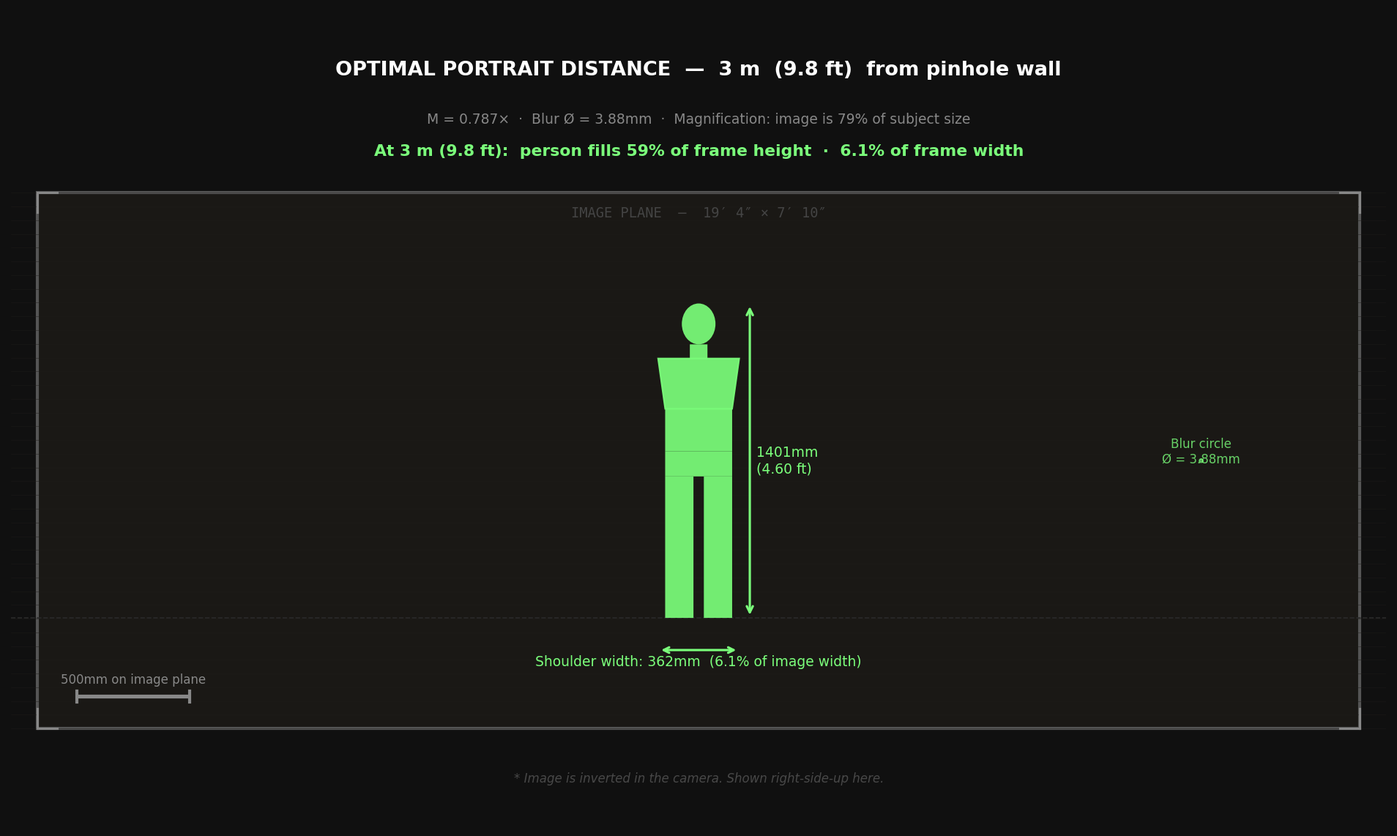
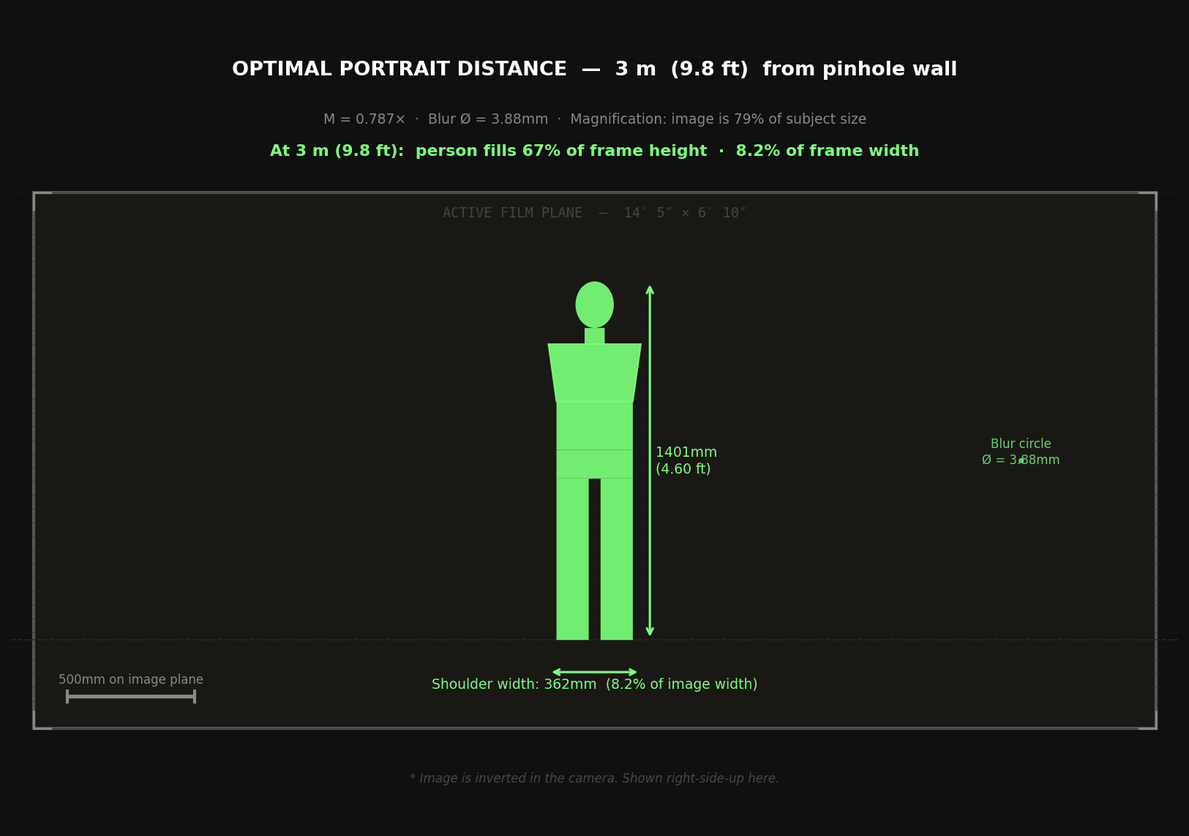
Refresh portrait diagrams to the active film plane + new Research report
The 3 portrait/optics diagrams were stale: they used the full container wall (5893x2388,
pinhole at container center) as the image plane -> 102deg FOV. Refreshed generate_portrait_viz.py
to the active film plane (4389x2094, pinhole X=2454), single-sourced from tbs_constants ->
~86deg H x ~48deg V FOV. Subject sizes (3m->1401mm, M=0.787) + blur were already correct.

Retired the duplicate generate_schematic.py (2nd stale producer of the same PNG, a
dependencies.yml conflict) + its refs in component-dependency-map/unused-imports-todo.

New Research report portrait-photography.md homes the 3 diagrams; registered in
publish.sh/setup_docs/mkdocs. Fixed the same stale 102deg FOV in pinhole-optics-report.md
Part 11 -> active-zone 86x48. Gallery-only 5 -> 2. Lint + editorial + build all green.

diff --git a/src/generators/generate_portrait_viz.py b/src/generators/generate_portrait_viz.py
@@ -4,22 +4,27 @@
 """
 Pinhole Camera — Portrait Scale Visualization
 Option B: 20-ft container, side-to-side
-f = 2362mm | d = 2.17mm | f/1088 | 102° horizontal FOV
+f = 2362mm | d = 2.17mm | f/1088 | ~86° horizontal FOV (active 4389mm film plane)
 """
 import matplotlib
 matplotlib.use('Agg')
 import matplotlib.pyplot as plt
 import matplotlib.patches as mpatches
 import numpy as np
-from tbs_constants import DISTORTION_DPI
+import math
+from tbs_constants import DISTORTION_DPI, RAIL_X_L, RAIL_X_R, FP_H, C_LEN, C_WID
 
 # ─────────────────────────────────────────
-# Camera constants
+# Camera constants — the IMAGE PLANE is the ACTIVE FILM PLANE (not the full container wall)
 # ─────────────────────────────────────────
-F   = 2362.0   # focal length, mm
-D   =  2.17    # Rayleigh pinhole, mm
-IW  = 5893.0   # image-plane width,  mm  (19′ 4″)
-IH  = 2388.0   # image-plane height, mm  (7′ 10″)
+F    = float(C_WID)                 # 2362 — focal length = container interior depth, mm
+D    =  2.17                        # Rayleigh pinhole Ø, mm
+FP_W = float(RAIL_X_R - RAIL_X_L)   # 4389 — active film-plane (image-plane) width, mm
+IW   = FP_W                         # image-plane width used for the scale charts
+IH   = float(FP_H)                  # 2094 — active film-plane height, mm
+PINHOLE_X = RAIL_X_L + FP_W / 2     # 2454.5 — pinhole on the long wall, at the ACTIVE-plane center
+H_FOV = 2 * math.degrees(math.atan((IW / 2) / F))   # ~86° — real horizontal field of view
+V_FOV = 2 * math.degrees(math.atan((IH / 2) / F))   # ~48° — real vertical field of view
 
 # ─────────────────────────────────────────
 # Subject proportions for a 1780mm adult
@@ -43,7 +48,7 @@ HEAD_W_F     = 0.107
 # Distances and presentation colors
 DISTS_M  = [2.0, 3.0, 5.0, 10.0]
 COLOURS  = ['#00D8FF', '#7BFF7B', '#FFB347', '#FF6B9D']
-X_CENTS  = [620, 1820, 3200, 5050]   # silhouette centers on image plane
+X_CENTS  = [IW*0.105, IW*0.309, IW*0.543, IW*0.857]   # silhouette centers (fractions of active width)
 
 
 # ─────────────────────────────────────────
@@ -217,7 +222,7 @@ ax.text(IW*0.5, IH*0.80,
 
 # ── Image plane label ────────────────────
 ax.text(IW/2, IH - IH*0.025,
-        "IMAGE PLANE  —  19′ 4″ × 7′ 10″  (5893 × 2388mm)",
+        "ACTIVE FILM PLANE  —  14′ 5″ × 6′ 10″  (4,389 × 2,094mm)",
         ha='center', va='top', fontsize=9, color='#444', zorder=10,
         fontfamily='monospace')
 
@@ -226,7 +231,7 @@ ax.text(IW/2, IH + IH*0.60,
         'OPTION B PINHOLE CAMERA  —  PORTRAIT RENDERING AT SCALE',
         ha='center', fontsize=14, color='#FFFFFF', fontweight='bold', zorder=10)
 ax.text(IW/2, IH + IH*0.48,
-        'Subject: 5′ 10″  (1780mm)  ·  f = 2362mm  ·  Pinhole d = 2.17mm  ·  f/1088  ·  102° H-FOV',
+        f'Subject: 5′ 10″  (1780mm)  ·  f = 2362mm  ·  Pinhole d = 2.17mm  ·  f/1088  ·  {H_FOV:.0f}° H-FOV × {V_FOV:.0f}° V-FOV',
         ha='center', fontsize=9.5, color='#888', zorder=10)
 
 # ── Inversion note ───────────────────────
@@ -258,8 +263,8 @@ ax2.set_facecolor('#0D0D0D')
 
 # Camera container footprint (20 ft × 8 ft)
 # Orient so image plane faces "up" in the diagram
-CONT_L_MM = 5893   # 19'4" interior = image plane width
-CONT_W_MM = 2362   # 7'9" interior = focal length
+CONT_L_MM = float(C_LEN)   # 5893 — container interior length
+CONT_W_MM = float(C_WID)   # 2362 — container interior depth = focal length
 
 # Container rectangle (left edge at x=0, bottom at y=0)
 ax2.add_patch(mpatches.Rectangle(
@@ -270,35 +275,41 @@ ax2.text(CONT_L_MM/2, CONT_W_MM/2,
          ha='center', va='center', fontsize=10, color='#555',
          fontweight='bold', zorder=3)
 
-# Image plane wall (top of container in diagram)
+# Image-plane wall (top of container). The full wall is faint; the ACTIVE FILM PLANE
+# (X = RAIL_X_L..RAIL_X_R) is the bright photosensitive span — offset toward the cargo-door end.
 ax2.plot([0, CONT_L_MM],[CONT_W_MM, CONT_W_MM],
-         color='#00D8FF', lw=4, solid_capstyle='butt', zorder=4, label='Image plane wall')
-ax2.text(CONT_L_MM/2, CONT_W_MM + 120,
-         'IMAGE PLANE  (photosensitive surface)',
+         color='#2A3A3A', lw=4, solid_capstyle='butt', zorder=4)
+ax2.plot([RAIL_X_L, RAIL_X_R],[CONT_W_MM, CONT_W_MM],
+         color='#00D8FF', lw=5, solid_capstyle='butt', zorder=4, label='Active film plane')
+ax2.text((RAIL_X_L+RAIL_X_R)/2, CONT_W_MM + 120,
+         'ACTIVE FILM PLANE  (4,389mm photosensitive span)',
          ha='center', fontsize=9, color='#00D8FF', zorder=5)
 
-# Pinhole wall (bottom of container in diagram)
+# Pinhole wall (bottom of container in diagram) — pinhole at the ACTIVE-plane center X (not container center)
 ax2.plot([0, CONT_L_MM],[0, 0],
          color='#FF6B35', lw=4, solid_capstyle='butt', zorder=4)
 ax2.add_patch(mpatches.Circle(
-    (CONT_L_MM/2, 0), 60,
+    (PINHOLE_X, 0), 60,
     fc='#FF6B35', ec='#FF9900', lw=2, zorder=5))
-ax2.text(CONT_L_MM/2, -350,
-         f'PINHOLE  ⌀ {D}mm  (f/{F/D:.0f})',
+ax2.text(PINHOLE_X, -350,
+         f'PINHOLE  ⌀ {D}mm  (f/{F/D:.0f})  ·  X={PINHOLE_X:.0f}mm',
          ha='center', fontsize=9.5, color='#FF6B35', fontweight='bold', zorder=5)
 
-# Light rays from pinhole to edges of image plane
-ray_color = '#FF6B3518'
-for iy in np.linspace(0, CONT_L_MM, 8):
-    ax2.plot([CONT_L_MM/2, iy],[0, CONT_W_MM],
+# Light rays from the pinhole to the edges of the ACTIVE film plane (the real captured cone)
+for iy in np.linspace(RAIL_X_L, RAIL_X_R, 8):
+    ax2.plot([PINHOLE_X, iy],[0, CONT_W_MM],
              color='#FF6B3530', lw=0.8, zorder=1)
 
-# Subject positions (above the container = outside the pinhole wall)
-scene_scale = 1.0   # mm stays as mm
-max_dist_mm = 12000
+# Subjects sit BELOW the pinhole wall (y = −distance). Bound the view to the actual content —
+# subjects down to the farthest distance, labels up to just above the image-plane stack — so the
+# drawing fills the frame instead of floating under a tall empty top margin.
+_label_top = CONT_W_MM + 500 + (len(DISTS_M) - 1) * 620   # top image-height label row
+_subj_bot  = -max(DISTS_M) * 1000                          # farthest subject (10 m)
+_title_y   = _label_top + 700
+_sub_y     = _label_top + 400
 
 ax2.set_xlim(-1500, CONT_L_MM + 1500)
-ax2.set_ylim(-1600, CONT_W_MM + max_dist_mm + 800)
+ax2.set_ylim(_subj_bot - 600, _title_y + 450)
 ax2.set_aspect('equal')
 ax2.axis('off')
 
@@ -309,9 +320,9 @@ for u_m, col in zip(DISTS_M, COLOURS):
     ph   = PH * M
     sw   = PH * SHOULDER_W_F * M
 
-    # Subject position in diagram: below pinhole wall (y = -u_mm)
+    # Subject position in diagram: below the pinhole (y = -u_mm), centered on the pinhole X
     sy = -u_mm
-    sx = CONT_L_MM/2
+    sx = PINHOLE_X
 
     # Figure (simple vertical bar + head)
     fig_h_diag = 300   # fixed display size for subject in this diagram
@@ -328,29 +339,29 @@ for u_m, col in zip(DISTS_M, COLOURS):
                  xytext=(sx + 900, 0),
                  arrowprops=dict(arrowstyle='<->', color=col, lw=1.4,
                                  mutation_scale=9), zorder=9)
-    ax2.text(sx + 1200, sy/2,
-             f'{u_m:.0f} m\n({u_m*3.28084:.0f} ft)',
-             va='center', fontsize=9, color=col, fontweight='bold', zorder=10)
+    ax2.text(sx + 1200, sy + fig_h_diag / 2,
+             f'{u_m:.0f} m  ({u_m*3.28084:.0f} ft)',
+             va='center', ha='left', fontsize=9, color=col, fontweight='bold', zorder=10)
 
     # Sight lines from subject to pinhole
-    ax2.plot([sx, CONT_L_MM/2],[sy + fig_h_diag/2, 0],
+    ax2.plot([sx, PINHOLE_X],[sy + fig_h_diag/2, 0],
              color=col, lw=0.7, ls='--', alpha=0.35, zorder=3)
 
     # Image height label on image plane
-    img_x_center = CONT_L_MM/2
+    img_x_center = PINHOLE_X
     img_x_offset = img_x_center - ph/2
     ax2.plot([img_x_offset, img_x_offset + ph],
              [CONT_W_MM + 50, CONT_W_MM + 50],
              color=col, lw=3, solid_capstyle='butt', alpha=0.7, zorder=5)
-    ax2.text(img_x_center, CONT_W_MM + 180 + DISTS_M.index(u_m)*150,
+    ax2.text(CONT_L_MM*0.62, CONT_W_MM + 500 + DISTS_M.index(u_m)*620,
              f'{u_m:.0f}m → image {ph:.0f}mm tall  ·  M = {M:.3f}×  ·  Blur Ø {B:.2f}mm',
-             ha='center', fontsize=8.5, color=col, zorder=10)
+             ha='left', fontsize=8.5, color=col, zorder=10)
 
-# Title
-ax2.text(CONT_L_MM/2, CONT_W_MM + max_dist_mm + 500,
+# Title (just above the image-plane label stack — no empty top margin)
+ax2.text(CONT_L_MM/2, _title_y,
          'TOP-DOWN SCHEMATIC  —  CAMERA + SUBJECT DISTANCES',
          ha='center', fontsize=13, color='#FFFFFF', fontweight='bold', zorder=10)
-ax2.text(CONT_L_MM/2, CONT_W_MM + max_dist_mm + 250,
+ax2.text(CONT_L_MM/2, _sub_y,
          'Diagram is to scale in mm. Container interior view. Subject outside, facing pinhole wall.',
          ha='center', fontsize=9, color='#777', zorder=10)
 
@@ -448,7 +459,7 @@ ax3.text((sb3_x0+sb3_x1)/2, sb3_y+IH*0.025,
 
 # Image plane label
 ax3.text(IW/2, IH-IH*0.025,
-         "IMAGE PLANE  —  19′ 4″ × 7′ 10″",
+         "ACTIVE FILM PLANE  —  14′ 5″ × 6′ 10″",
          ha='center', va='top', fontsize=9, color='#444', zorder=10,
          fontfamily='monospace')
 

diff --git a/src/generators/setup_docs.py b/src/generators/setup_docs.py
@@ -67,6 +67,7 @@ MD_FILES = [
     ("licensing.md",                      (".",           "License")),
     ("light-trap-selection.md",           (".",           "Light Trap Selection")),
     ("engineering-diagrams.md",           (".",           "Engineering Diagrams")),
+    ("portrait-photography.md",           (".",           "Portrait Photography")),
     ("distortion-renders.md",      (".",           "Distortion Renders")),
     ("equipment-layout-report.md",        (".",           "Equipment Layout")),
     ("component-dependency-map.md",       (".",           "Component Dependency Map")),
@@ -359,6 +360,7 @@ nav:
     - "Lens Options": lens-options.md
     - "Photosensitive Materials": photosensitive-plane-options.md
     - "Sensitizer Trials": sensitizer-trials.md
+    - "Portrait Photography": portrait-photography.md
     - "Distortion Renders": distortion-renders.md
     - "Film Plane Distortion Analysis": film-plane-mechanism-analysis.md
     - "Light Trap Selection": light-trap-selection.md
@@ -476,6 +478,7 @@ The container travels by commercial hire truck. No CDL required for the operator
 | [License](licensing.md) | GNU AGPLv3 — © 2026 Alvin Richards |
 | [Light Trap Selection](light-trap-selection.md) | Revolving light trap options, pricing, and custom fabrication specification |
 | [Engineering Diagrams](engineering-diagrams.md) | All TBS-001 construction drawings — assembly overview, fabrication, subsystems |
+| [Portrait Photography](portrait-photography.md) | Portrait framing — field of view (~86°), subject size vs distance, and the optimal portrait distance |
 | [Distortion Renders](distortion-renders.md) | Ray-traced projections for all film-plane and tilt-swing configurations |
 | [Equipment Layout](equipment-layout-report.md) | Shadow-free end-zone layout — optical clearance proof, IBC Y-stacking, new rail positions |
 | [Component Dependency Map](component-dependency-map.md) | System component registry, diagram index, and change propagation guide |

diff --git a/editorial-review-todo.md b/editorial-review-todo.md
@@ -57,6 +57,7 @@ also a `tbs_constants` value or a `costing.py`/`facts.yml` fact, prefer the refe
 - [x] lens-options.md  — *DONE (2026-06-24): hyperlinked the whole Sources table (books→catalog, manufacturers→sites); header placeholders (pinhole 2.17→pinhole_diameter_mm, f/1088→f_number, container 5893→container_interior_length_mm ×2); thousands-sep 3262/3474/1112/424000/10743612; spelling/typos utilised→utilized, jewellery→jewelry, artefact→artifact, maximising→maximizing, centerd→centered ×2; cyanotype ~35→~30–45 min ×3. Pinhole resolution standardized on pinhole-optics' 0.69 lp/mm (was 0.23, the geometric figure MISLABELED 'diffraction-limited'): §4.1 row → 1.46mm Airy / 0.69 lp/mm / labeled+cited, the '× better than pinhole' ratios recomputed vs 0.69 (100→33×, 50→17×, 26→9×, 13→4×, 6→2×, 3→~1×; prose 65–110→22–36×, 20–43→7–14×), §4.2 reworded to keep the 2.17mm GEOMETRIC blur distinct from the lp/mm resolution, §10 summary 0.23→0.69. LEFT for review: 43 min (L113) vs 2.4 hr (L129) bellows discrepancy; whether the 0.69-diffraction framing (vs 0.23-geometric practical) reads right. Editorial + drift gates pass.*
 - [x] lens-vs-pinhole-exposure.md  — *DONE (2026-06-24): rewrote §2.2 to drop the show-wrong-then-correct device (the ~15,500 false start + 'Wait — this is not right') into a direct two-factor decomposition (1,632 aperture × 3.36 reciprocity = 5,484 ≈ 5,489), and added a 'for the camera as built' callout scoping Factor 2 to silver-gelatin paper (cyanotype is iron-based → no Schwarzschild term → lens edge is the ~4,624× aperture ratio alone). Hyperlinked the whole Sources table (books → catalog, Young → DOI, Schwarzschild → NASA ADS). Fixed the Schwarzschild citation: bogus 'Astrophysikalische Nachrichten Vol. 148' → The Astrophysical Journal Vol. 11, 1900, pp. 89–91 (ADS). Wrapped header f 2,362/2.17/f1088 as placeholders; 17094→17,094 (×2); dropped the naive 0.56 sec in Part 2 (0.47 used throughout); spellings penalises→penalizes, standardised→standardized (×2; editorial_lint misses -ise). Recorded the authoritative-voice/no-self-correction preference in memory. Editorial + drift gates pass.*
 - [x] photosensitive-plane-options.md  — *DONE (2026-06-24): 'Giant Pinhole Camera'→'The Big Shoebox Project (TBS-001)'; header placeholders (container/116/f/f-number/pinhole); British spellings→American (sensitiser×7, Sensitising, sensitised×3, sensitisation×3, artefact×3, minimising, analyses); thousands-sep 5950/1220; cyanotype §A.1 exposure ~1–4h→~30–45min(Ware)+~2–4h(Herschel); hyperlinked Sources table; pricing 2025→2026. COST (option 3 full reconcile): costing.py holds the truth for cyanotype per-print — bound NEW placeholders costing:s73-pp-std (~$36) + s73-pp-range ($27–63) to this doc; §1 fixed FAC→Ware AmFe; ALL muslin lines retail $80–100→BULK ~$6/print (project-cost-breakdown §7.1), recomputed every per-image total + cascaded Exec/process-comparison/recommendation tables (Gum→$61–81, Salt→$280–360, VanDyke→$121–206, Herschel→$30–40); added substrate-cost-basis note; softened 'ordered by cost'. Non-muslin processes unchanged. costing self-check + all gates pass. NOTE: Herschel/gum/salt/VanDyke totals are the doc's own chem estimates + bulk muslin (only cyanotype-Ware is single-sourced).*
+- [ ] portrait-photography.md  — *NEW 2026-10-08 (gallery-only diagram refresh): new Research report built clean — the prose points to the 3 refreshed portrait diagrams and keeps only headline figures (FOV ~86° H / ~48° V, f=2,362, Ø2.17, f/1088, M=f/u, blur=2.17·(1+f/u)); no restated detail dims to remove. Editorial gates pass. The portrait generators were refreshed off the active film plane (4,389×2,094, pinhole X=2,454) and the stale 102° FOV was also corrected in pinhole-optics-report.md Part 11. PENDING sign-off.*
 - [x] distortion-renders.md  — *DONE (2026-06-25): renamed from complete-distortion-renders.md (fixed refs in publish.sh, setup_docs.py MD_FILES + INDEX_MD, mkdocs.yml regen, project-summary.md, and the cross-ref links in film-plane-mechanism-report.md + tilt-swing-board-report.md). Editorial: §1 'Seven configurations'→'Six' (table is C0–C5); dropped 'old…no longer producible' archaeology → states the constraint affirmatively; single-sourced ±40°/±28° → film_plane_max_tilt/swing placeholders. Stray dim: tilt-swing C2/C3 'max shift' paired the 5.3° hard-stop with the 5° reference shift (207mm) — corrected the generator to COMPUTE it (SHIFT=round(F·tan(FB))=219mm), regenerated C2/C3 + summary, doc → ±219mm. Editorial + drift gates pass.*
 - [x] component-dimension-audit.md  — *DONE (2026-07-02, first review): intentionally dimensional (parts:dimension-audit table + evap facts already generated). (A) removed a duplicated closing line; (B) §2 detail headings were stuck at as-found ❌/⚠ while §1 + §4 mark them ✅ done → reconciled all six to '✅ RESOLVED (§4)' + an as-found note; (C) reworded §6 to keep the audit finding without the flagged 'Portacool Jetstream' phrasing → editorial_lint now fully clean; (D) flagged the §4 cost figures as a dated 2026-06-15 snapshot (current total in Cost Breakdown). Then fixed a stale §4 claim: the evap/inverter 3D re-send is DONE (overview.skp re-saved 1872583b + inverter label 99ec629c), not pending — only the manual Sketchfab re-upload may remain. Commits 1b23d1cc + 6f1a6697; all gates green. NOT yet published.*
 - [x] licensing.md  — *DONE (2026-07-02, first review): removed 'All rights reserved' (contradicted the AGPLv3 open-source grant → 'Copyright © 2026 Alvin Richards.', matches SPDX header); hyperlinked the license name to the official GNU AGPLv3 text (§E); added a Source References section (formal official-license link + repo LICENSE file) → cleared the editorial_lint missing-refs flag. Owns nothing; gates green. Commit 1b6df25a. NOT yet published (batched per cadence).*

diff --git a/RELEASE.md b/RELEASE.md
@@ -24,6 +24,7 @@ file** — a release must not ship without a changelog entry:
 
 ## [Unreleased]
 
+- **Portrait diagrams refreshed to the active film plane + new Research report.** The three portrait/optics visualizations (`portrait-camera-schematic`, `portrait-scale-comparison`, `portrait-optimal-3m`) were **stale** — they treated the full container wall (5,893 × 2,388mm) as the image plane with the pinhole at the container center, citing a **102° FOV**. Refreshed `generate_portrait_viz.py` to the real **active film plane (4,389 × 2,094mm, pinhole at X=2,454)**, now single-sourced from `tbs_constants` — the field of view is **~86° H × ~48° V**; the subject sizes (3m → 1,401mm image, M=0.787) and blur (B = 2.17·(1+f/u)) were already correct and unchanged. Retired the **duplicate `generate_schematic.py`** (a second, also-stale producer of the same PNG — a `dependencies.yml` conflict). New Research report **`portrait-photography.md`** gives the three diagrams a published home (framing, subject size vs distance, the optimal ~3m portrait). The same stale **102° FOV** was corrected in `pinhole-optics-report.md` Part 11 (→ active-zone 86° × 48°, consistent with its own "active film zone 4,389mm" row). **Gallery-only diagrams 5 → 2.**
 - **Electrical conduit + cable supports — 58 P-clips / saddle straps (3D), mirroring the plumbing panel.** Added pipe-support clips to the electrical runs: **12 saddle straps** fixing the 40×25 PVC ceiling cable trunk to the pinhole wall (~500mm centres), and **46 cushioned P-clips** on the out-of-trunk runs — Fan A far-end cross/drop, Fan B wall drop, the Cct-C feed's corridor traverse + drop onto the dist block, the Cct-C pump bus **and pump-branch cables** on the corridor plumbing panel, the interior PV+/PV- feeds behind the EP, the E-stop trip line + parallel link along the EP wall, the Cct-E AC line to the GFCI inside the external EP, and the **Cct-G light cable over the IBC corridor**. Each clip set is emitted by the run's **owning function** (`em._run`, `pw.panel_power`, `power_core`) on the run's own point-list via a new shared **`ruby_clip_run(points, spacing)`** helper, so the clips track the conductor and can't drift off it. `check_interference` gains a rule treating `clip` solids as **intended pipe contact** (a support clamp touching its pipe is not a clash) — which also legitimizes the plumbing clips. BOM: new **`conduit-support-clips`** (58 ea, $0.45–0.80) → electrical +$26/$46, grand total reconciled both ways. `check_interference` **0 crossings / 0 interferences** on electrical. (3D + BOM; cascade to overview/construction/water pending.)
 - **Model-drift audit → `evap_cooler` single-sourced to em (fixes a stale GFCI height).** A sweep of every overview geometry builder (the thin-wrapper audit) found one remaining true duplicate: the overview's `evap_cooler()` drew its **own ported copies** of the Cct-E **cooler body**, **120V AC line** (inverter → GFCI), and **cooler cord** (GFCI → cooler) — all of which em also draws. The copies had **drifted**: the overview ran the AC line + cord to a GFCI at `0.325·PWR_PANEL_H` while em's real outlet is at `_OUTLET_VF=0.4292·PWR_PANEL_H`, so in the overview the cooler wiring stopped short of the actual GFCI. Fix: extracted **`em.cooler()`** (cooler body + cord, the single owner, shared by `external_panel()`), and the overview now composes `em.inverter()` + `em.cct_e_feed()` + `em.cooler()` — keeping only the Ø200 supply duct (overview-owned, no ventilation sub-model). electrical byte-identical (pure refactor); only overview re-sent. **Audit result otherwise clean:** the container shell / far wall / pinhole / optical cone / chem-shelf / door seal have no sub-model twin (legitimately overview-owned), the electrical/lighting wrappers compose em, and em's context ghosts are benign.
 - **Fan-B flex single-sourced to the electrical model — fixes a disconnected conductor + a box-position drift.** The orange Cct-B flex (wall box → fan on the swing panel) was **drawn in two places** — `em.circuit_runs()` AND the overview's `fan_wiring()` — and their box X had drifted apart: the overview + `lt.fan_b_box()` had shifted the box to **X=420** (to clear the film-plane beams) but `em._FANB_BOX_X` was stale at **300**, so in the overview the rigid Cct-B run (keyed off em, ending at 300) stopped ~120mm short of the box/flex at 420 — the flex read as disconnected. Per the thin-wrapper rule: `_FANB_BOX_X` is corrected to **420** (the real position — box, flex, run, ghost, and label all key off it), the flex is extracted to a single owner **`em.fan_b_flex()`**, and the overview + construction now **call it** instead of keeping a copy. Also fixed `CCT_FUSE["G"]` 10A→15A (stale from the Circuit-G rewire). electrical / overview / construction / water re-sent (water reuses em's context).

diff --git a/portrait-photography.md b/portrait-photography.md
@@ -1,0 +1,60 @@
+<!-- SPDX-License-Identifier: AGPL-3.0-only -->
+<!-- © 2026 Alvin Richards -->
+# Portrait Photography — Framing & Field of View
+
+At human scale, TBS-001 is a portrait camera: a person stands in front of the pinhole wall and is
+projected — inverted and reversed — onto the photosensitive film plane inside the container. This
+page collects the geometry of that capture: how wide a scene the camera takes in, how large a subject
+renders at a given distance, and where a portrait sits best.
+
+The optics are the fixed pinhole — focal length **f = 2,362mm** (the container's interior depth),
+pinhole **Ø2.17mm**, **f/1088** (the [Rayleigh optimum](pinhole-optics-report.md)). The image forms
+on the **active film plane, 4,389 × 2,094mm**, with the pinhole centered on the long wall at
+X ≈ 2,454mm — see the [Film Plane Mechanism](film-plane-mechanism-report.md).
+
+---
+
+## 1. Field of view
+
+The field of view is set by how much of the film plane the pinhole "sees" — the active plane's extent
+relative to the focal length:
+
+- **Horizontal FOV ≈ 86°** — 2·atan((4,389 ÷ 2) ÷ 2,362)
+- **Vertical FOV ≈ 48°** — 2·atan((2,094 ÷ 2) ÷ 2,362)
+
+![Portrait camera schematic — top-down, with subject distances](assets/portrait-camera-schematic.png)
+
+Subjects stand outside the pinhole wall, facing the camera. A standing adult fills the frame
+vertically at modest range; farther back, the figure shrinks and more of the surrounding scene enters.
+
+## 2. Subject size vs distance
+
+For a pinhole the projected image scales linearly: **magnification M = f ÷ u** (image size ÷ subject
+size, for a subject at distance *u*). A 1,780mm (5′10″) subject therefore projects to 1,780 · (2,362 ÷ u)
+mm on the film:
+
+![Portrait scale comparison — one subject at several distances](assets/portrait-scale-comparison.png)
+
+Closer subjects render larger (and eventually overflow the 2,094mm plane height); farther subjects
+render smaller with more context around them.
+
+## 3. The optimal portrait distance
+
+Sharpness is limited by the pinhole's geometric blur circle, **B = 2.17 · (1 + f ÷ u)** mm on the
+film — larger for nearer subjects, since the cone of light from each point of the subject spreads more
+on the way in. Trading framing against blur puts a comfortable full-figure portrait at roughly **3m**:
+
+![Optimal portrait at 3m — magnification and blur circle](assets/portrait-optimal-3m.png)
+
+At 3m the image is **M = 2,362 ÷ 3,000 ≈ 0.79×** of the subject (a 1,780mm person → ~1,400mm image,
+inside the 2,094mm plane height) with a blur circle of **B ≈ 2.17 · (1 + 2,362 ÷ 3,000) ≈ 3.9mm** —
+soft by lens standards, and characteristic of the pinhole look.
+
+---
+
+## See Also
+
+- [Optics Report](pinhole-optics-report.md) — pinhole sizing, f-number, and resolution.
+- [Lens vs Pinhole Exposure](lens-vs-pinhole-exposure.md) — exposure and sharpness trade-offs.
+- [Distortion Renders](distortion-renders.md) — film-plane movement and perspective control.
+- [Film Plane Mechanism](film-plane-mechanism-report.md) — the image plane and its dimensions.

diff --git a/component-dependency-map.md b/component-dependency-map.md
@@ -426,7 +426,7 @@ Every generator script, its output PNGs, and the subsystems it renders.
 | **LT** | `generate_ventilation_diagram.py` | `diagrams/ventilation-sheet1.png`<br>`diagrams/ventilation-sheet2.png` | 1, 5, 6, 7, 8 |
 | **PDH** | `generate_pinhole_disc_holder.py` | `diagrams/pinhole-disc-holder-sheet1.png`<br>`diagrams/pinhole-disc-holder-sheet2.png` | 2, 4 |
 | **WK** | `generate_walkway_diagram.py` | `diagrams/walkway-sheet1.png`<br>`diagrams/walkway-sheet2.png`<br>`diagrams/walkway-sheet3.png`<br>`diagrams/walkway-sheet4.png`<br>`diagrams/walkway-sheet5.png`<br>`diagrams/walkway-sheet6.png` | 1, 16, 17 |
-| **SC** | `generate_schematic.py`<br>`generate_portrait_viz.py` | `diagrams/portrait-camera-schematic.png`<br>`diagrams/portrait-optimal-3m.png`<br>`diagrams/portrait-scale-comparison.png` | 1, 2 (optical visualization) |
+| **SC** | `generate_portrait_viz.py` | `diagrams/portrait-camera-schematic.png`<br>`diagrams/portrait-optimal-3m.png`<br>`diagrams/portrait-scale-comparison.png` | 1, 2 (optical visualization) |
 
 > **FPM / FPD — rigid-plane slide-and-clamp corners:** the film-plane mechanism sheets and optical-distortion renders show the **fixed-size rigid plane on slide-and-clamp corners** — **axis tilt/swing** about the plane center (foreshortening, not growth), tilt ±40° / swing ±28°, single rigid ACM backing, a 304 flat-bar Z/X cross-slide at each corner, and a single-axis envelope (FPD C0–C5). `generate_film_plane_mechanism.py` uses `rigid_corners3d`/`tilt_edge`/`swing_edge` (asin, not atan) and reads `MAX_TILT_DEG`/`MAX_SWING_DEG` from `tbs_constants.py`. Consistent with `film-plane-mechanism-report.md`, `master-shopping-list.md`, `project-cost-breakdown.md`, and `models/film-plane-mechanism.skp`.
 

diff --git a/pinhole-optics-report.md b/pinhole-optics-report.md
@@ -480,7 +480,7 @@ The summary above sizes a generic 20' × 7' camera from the image *diagonal*. TB
 | f-number | f/<!-- BEGIN fact:f_number -->1088<!-- END fact:f_number --> | f / d |
 | Image plane (full interior long wall) | <!-- BEGIN fact:container_interior_length_mm -->5,893<!-- END fact:container_interior_length_mm --> × <!-- BEGIN fact:film_plane_height_mm -->2,094<!-- END fact:film_plane_height_mm -->mm | One long wall |
 | Active film zone (shadow-free) | <!-- BEGIN fact:film_plane_width_mm -->4,389<!-- END fact:film_plane_width_mm --> × <!-- BEGIN fact:film_plane_height_mm -->2,094<!-- END fact:film_plane_height_mm -->mm (~101 sq ft) | Within the long wall |
-| Horizontal field of view | 102° | 2·arctan(5,893 / (2 × 2,362)) |
+| Field of view (active film zone) | ~86° H × ~48° V | 2·arctan(4,389 / (2 × 2,362)) · 2·arctan(2,094 / (2 × 2,362)) |
 | Resolution at f/1088 | 0.69 lp/mm | d / (2 × 1.22 × λ × f) |
 | Baseline exposure (cyanotype) | ~30–45 min | Ware New Cyanotype on muslin, full sun; iron-based — no Schwarzschild correction (Part 6) |
 

diff --git a/unused-imports-todo.md b/unused-imports-todo.md
@@ -90,7 +90,6 @@ find src -name '*.py' -not -path '*__pycache__*' -print0 \
       `hatch_rect`
 - [ ] `src/generators/generate_portrait_viz.py` (1)
       `os`
-- [ ] `src/generators/generate_schematic.py` (1)
       `os`
 - [ ] `src/generators/setup_docs.py` (1)
       `os`
